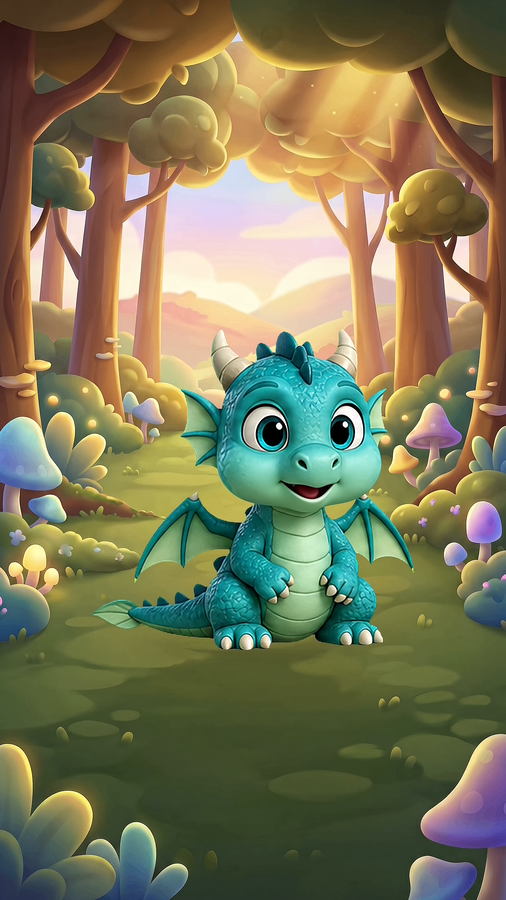
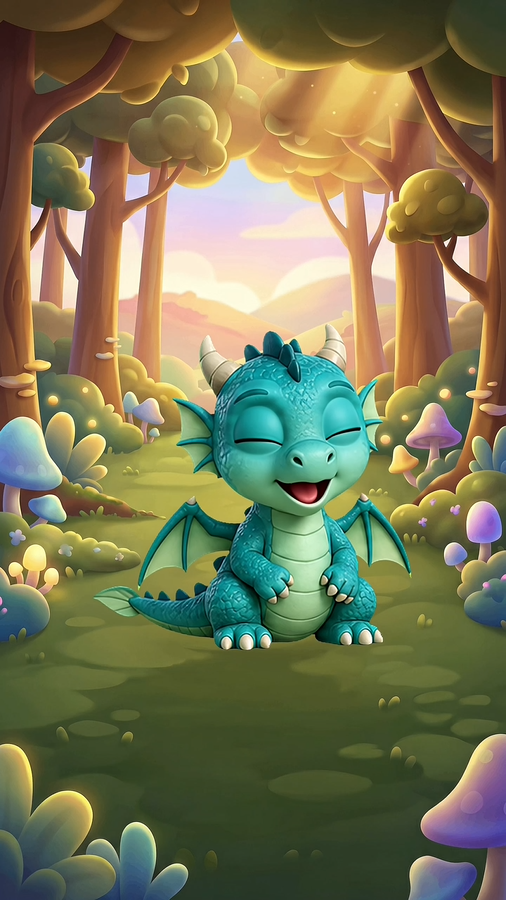
Optimize munch reaction playback

Changed region(s): [[0.1779, 0.3422, 0.83, 0.7156]]

diff --git a/src/main.js b/src/main.js
@@ -422,6 +422,7 @@ async function startGame() {
   rewardVideoPanel.hidden = true;
   celebrationPanel.hidden = true;
   renderFoodTray();
+  primeMunchReactionVideo();
   updateHud();
   updateQuestionNav();
   resizeAll();
@@ -470,6 +471,29 @@ function getFedFoodIds() {
     }
   });
   return fedFoodIds;
+}
+
+function configureMunchVideoForInlinePlayback() {
+  if (!munchVideo) return;
+  munchVideo.muted = true;
+  munchVideo.playsInline = true;
+  munchVideo.controls = false;
+  munchVideo.disablePictureInPicture = true;
+  munchVideo.preload = "auto";
+  munchVideo.setAttribute("controlsList", "nodownload nofullscreen noremoteplayback");
+  munchVideo.setAttribute("playsinline", "");
+  munchVideo.setAttribute("webkit-playsinline", "");
+  munchVideo.removeAttribute("controls");
+}
+
+function primeMunchReactionVideo() {
+  if (!munchVideo) return;
+  configureMunchVideoForInlinePlayback();
+  munchVideo.poster = MUNCH_REACTION_VIDEO.posterSrc;
+  if (munchVideo.getAttribute("src") !== MUNCH_REACTION_VIDEO.src) {
+    munchVideo.src = MUNCH_REACTION_VIDEO.src;
+    munchVideo.load();
+  }
 }
 
 function addFoodPointerHandlers(foodEl) {
@@ -1079,18 +1103,13 @@ function showMunchReaction(onComplete) {
   munchVideoPoster.hidden = false;
 
   munchVideo.pause();
-  munchVideo.muted = true;
-  munchVideo.playsInline = true;
-  munchVideo.controls = false;
-  munchVideo.disablePictureInPicture = true;
-  munchVideo.setAttribute("controlsList", "nodownload nofullscreen noremoteplayback");
-  munchVideo.setAttribute("playsinline", "");
-  munchVideo.setAttribute("webkit-playsinline", "");
-  munchVideo.removeAttribute("controls");
+  configureMunchVideoForInlinePlayback();
   munchVideo.poster = MUNCH_REACTION_VIDEO.posterSrc;
-  munchVideo.src = MUNCH_REACTION_VIDEO.src;
+  if (munchVideo.getAttribute("src") !== MUNCH_REACTION_VIDEO.src) {
+    munchVideo.src = MUNCH_REACTION_VIDEO.src;
+    munchVideo.load();
+  }
   munchVideo.currentTime = 0;
-  munchVideo.load();
 
   munchReactionWatchdog = window.setTimeout(finishMunchReaction, 5200);
   const played = munchVideo.play();
@@ -1114,10 +1133,14 @@ function resetMunchReaction() {
   clearMunchReactionTimers();
   if (munchVideo) {
     munchVideo.pause();
-    munchVideo.removeAttribute("src");
     munchVideo.removeAttribute("poster");
     munchVideo.removeAttribute("controls");
-    munchVideo.load();
+    configureMunchVideoForInlinePlayback();
+    try {
+      munchVideo.currentTime = 0;
+    } catch {
+      // Some mobile browsers reject seeking while the hidden video is being recycled.
+    }
   }
   if (munchVideoPoster) {
     munchVideoPoster.removeAttribute("src");